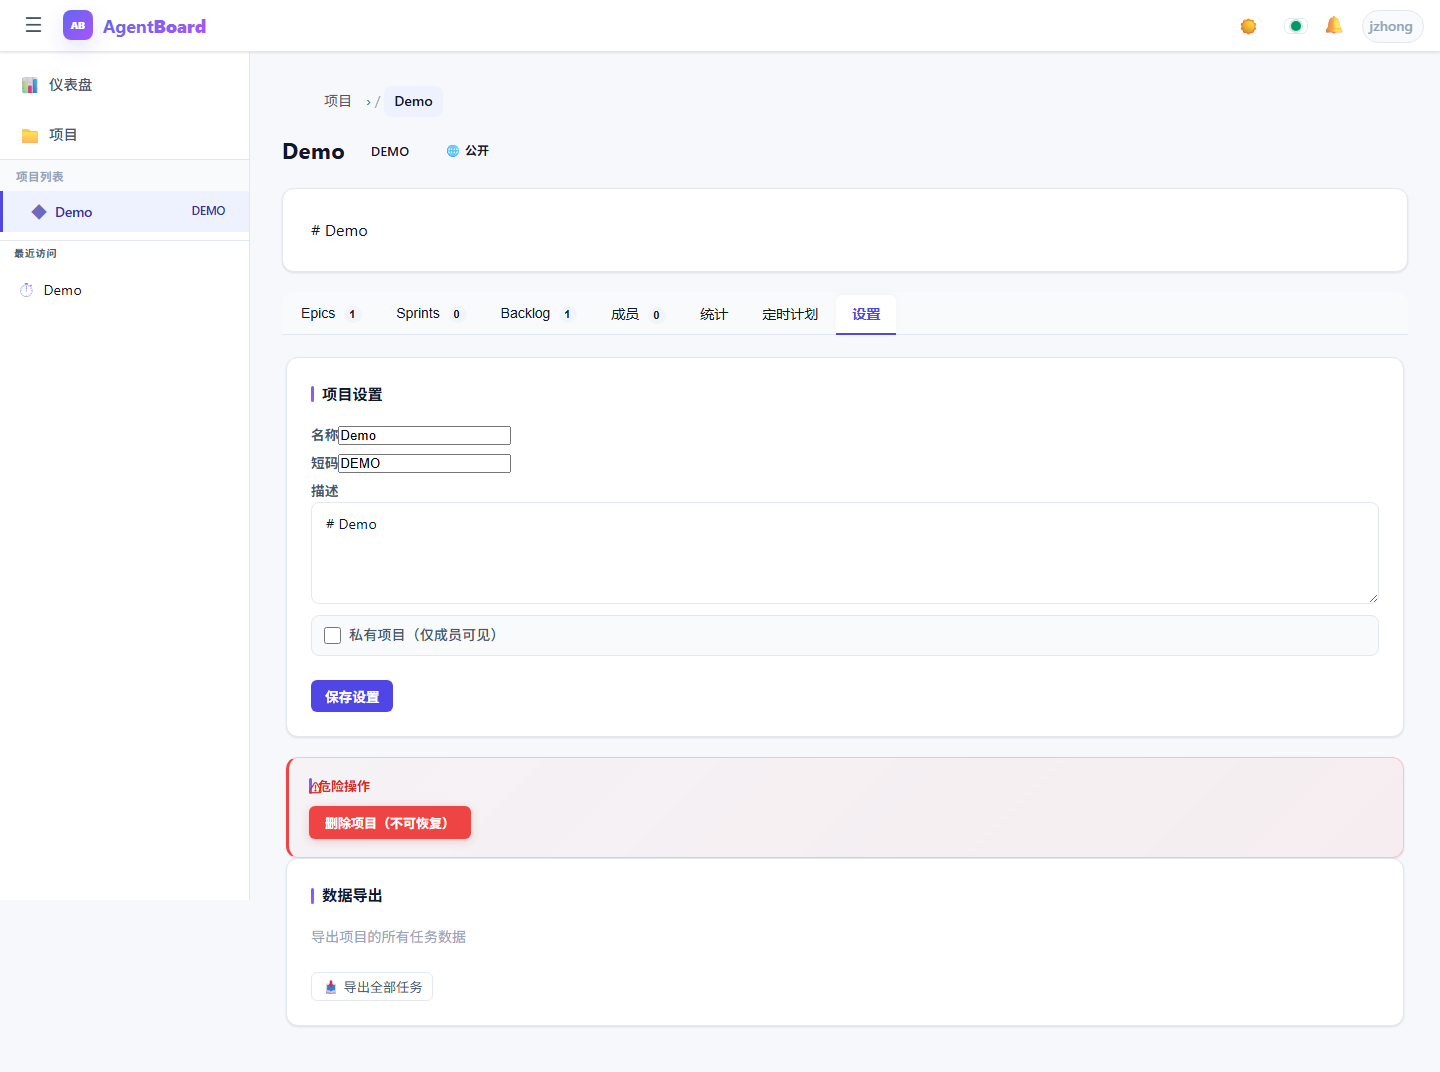
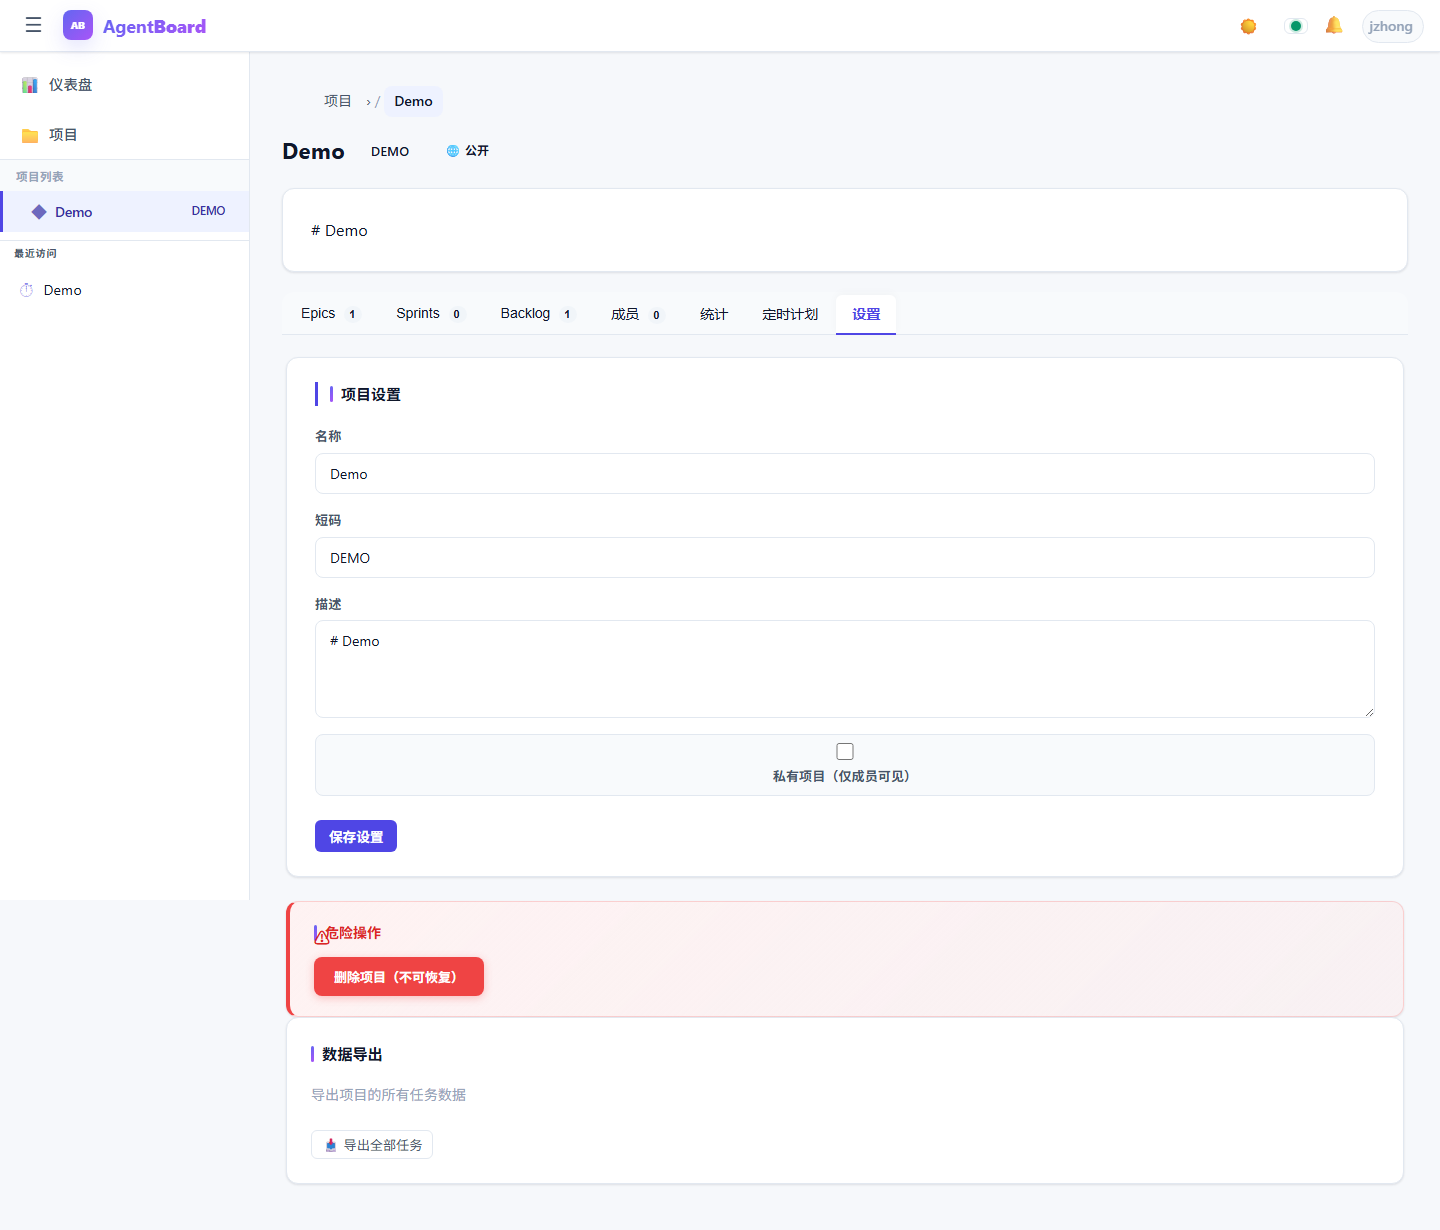
style: improve settings page form layout and danger zone styling
- Form fields now stack vertically (label above input) with proper spacing
- Input fields have 8px border-radius, focus ring, comfortable padding
- Danger zone has 4px red left border + soft red gradient background
- Delete button has shadow and hover lift effect
- Section headers (项目设置/数据导出) have purple left accent bar
- Increase Angular component CSS budget from 8KB to 14KB
- Deploy new build bundles (main-ZFFW24BG.js)

diff --git a/frontend/src/app/app.css b/frontend/src/app/app.css
@@ -153,6 +153,29 @@ router-outlet {
 .setting-list dd { margin: 0; font-size: 14px; padding: 4px 0; border-bottom: 1px solid var(--border-2); }
 .setting-list dd:last-child { border-bottom: none; }
 
+/* Settings form-section: project settings form */
+.card.form-section { padding: 24px 28px; }
+.card.form-section > h4 {
+  font-size: 15px; font-weight: 700; color: var(--text); margin-bottom: 20px;
+  padding-left: 12px; border-left: 3px solid var(--brand-500);
+}
+/* Inline label+input in settings: stack label text above input */
+.card.form-section > form > label {
+  display: flex; flex-direction: column; gap: 6px; margin-bottom: 16px;
+  font-size: 13px; font-weight: 600; color: var(--text-2);
+}
+.card.form-section > form > label input,
+.card.form-section > form > label textarea {
+  width: 100%; padding: 10px 14px; border: 1px solid var(--border);
+  border-radius: 8px; font-family: inherit; font-size: 14px;
+  color: var(--text); background: var(--surface); transition: all .15s;
+}
+.card.form-section > form > label input:focus,
+.card.form-section > form > label textarea:focus {
+  outline: none; border-color: var(--brand-500); box-shadow: 0 0 0 3px var(--brand-ring);
+}
+.card.form-section > form > label textarea { resize: vertical; min-height: 80px; }
+
 .checkbox-label {
   display: flex; align-items: center; gap: 8px; cursor: pointer; font-size: 14px;
   font-weight: 500; padding: 8px 12px; background: var(--surface-2);
@@ -162,16 +185,25 @@ router-outlet {
 .checkbox-label input[type=checkbox] { width: 17px; height: 17px; accent-color: var(--brand-500); }
 
 .danger-zone {
-  margin-top: 20px; border: 1px solid rgba(239,68,68,.25);
-  border-left: 3px solid #ef4444; border-radius: 12px;
-  background: linear-gradient(135deg, rgba(239,68,68,.03), rgba(239,68,68,.06));
-  padding: 18px 20px;
+  margin-top: 24px; border: 1px solid rgba(239,68,68,.2);
+  border-left: 4px solid #ef4444; border-radius: 12px;
+  background: linear-gradient(135deg, #fef2f2, rgba(254,226,226,.3));
+  padding: 20px 24px;
 }
-.danger-zone h4 { color: #dc2626; font-weight: 700; font-size: 13px; margin-bottom: 10px; display: flex; align-items: center; gap: 6px; }
-.danger-zone h4::before { content: "⚠"; }
+.danger-zone h4 {
+  color: #dc2626; font-weight: 700; font-size: 14px;
+  margin-bottom: 12px; display: flex; align-items: center; gap: 8px;
+}
+.danger-zone h4::before { content: "⚠"; font-size: 16px; }
+.danger-zone p { color: #991b1b; font-size: 13px; margin-bottom: 14px; line-height: 1.5; }
 
-.danger-zone .danger { background: #ef4444; color: #fff; border: none; padding: 7px 16px; border-radius: 6px; font-size: 13px; font-weight: 600; cursor: pointer; box-shadow: 0 2px 8px rgba(239,68,68,.25); }
-.danger-zone .danger:hover { background: #dc2626; box-shadow: 0 4px 12px rgba(239,68,68,.35); transform: translateY(-1px); }
+.danger-zone .danger {
+  background: #ef4444; color: #fff; border: none;
+  padding: 10px 20px; border-radius: 8px; font-size: 13px;
+  font-weight: 600; cursor: pointer; box-shadow: 0 2px 8px rgba(239,68,68,.3);
+  transition: all .18s;
+}
+.danger-zone .danger:hover { background: #dc2626; box-shadow: 0 4px 14px rgba(239,68,68,.4); transform: translateY(-1px); }
 
 .info-box { background: linear-gradient(135deg, #eff6ff, #f0fdf4); border: 1px solid #bfdbfe; color: #1e40af; border-radius: 10px; padding: 12px 16px; font-size: 13px; line-height: 1.5; margin-bottom: 14px; display: flex; align-items: center; gap: 10px; }
 .info-box::before { content: "ℹ"; display: inline-flex; align-items: center; justify-content: center; width: 20px; height: 20px; background: #3b82f6; color: #fff; border-radius: 50%; font-size: 11px; font-weight: 700; flex-shrink: 0; }

diff --git a/agentboard/web/static/browser/index.html b/agentboard/web/static/browser/index.html
@@ -5,12 +5,13 @@
     <title>AgentBoard</title>
     <base href="/">
     <meta name="viewport" content="width=device-width, initial-scale=1">
+    <link rel="icon" type="image/svg+xml" href="favicon.svg">
     <link rel="stylesheet" href="/static/style.css">
     <script>
       window.AGENTBOARD_API = '__API_URL__';
     </script>
-  <style>:root{--brand-500:#4f46e5;--brand-600:#4338ca;--brand-700:#3730a3;--brand-soft:#eef2ff;--brand-ring:rgba(79,70,229,.18);--grad:linear-gradient(135deg, #6366f1 0%, #8b5cf6 55%, #a855f7 100%);--primary:var(--brand-500);--primary-hover:var(--brand-600);--success:#059669;--success-soft:#d1fae5;--warning:#d97706;--warning-soft:#fef3c7;--danger:#dc2626;--danger-soft:#fee2e2;--info:#0891b2;--info-soft:#cffafe;--violet:#7c3aed;--violet-soft:#ede9fe;--text:#0f172a;--text-2:#475569;--text-3:#94a3b8;--text-secondary:var(--text-2);--border:#e2e8f0;--border-2:#eef2f6;--bg:#f6f8fb;--surface:#ffffff;--surface-2:#f8fafc;--surface-3:#f1f5f9;--sh-sm:0 1px 2px rgba(15,23,42,.05), 0 1px 3px rgba(15,23,42,.06);--sh-md:0 4px 12px -2px rgba(15,23,42,.08), 0 2px 6px -2px rgba(15,23,42,.05);--sh-lg:0 12px 28px -6px rgba(15,23,42,.14);--sh-brand:0 8px 24px -6px rgba(99,102,241,.45);--r-sm:8px;--r-md:12px;--r-lg:16px;--font-sans:"Inter", -apple-system, BlinkMacSystemFont, "Segoe UI", Roboto, "Noto Sans SC", "PingFang SC", sans-serif;--font-mono:"JetBrains Mono", ui-monospace, Consolas, "Cascadia Code", monospace;--sidebar-width:250px;--topbar-h:52px;--status-backlog-bg:#f1f5f9;--status-backlog-text:#475569;--status-todo-bg:#e0e7ff;--status-todo-text:#4338ca;--status-in_progress-bg:#fef3c7;--status-in_progress-text:#b45309;--status-in_review-bg:#fce7f3;--status-in_review-text:#be185d;--status-verifying-bg:#dbeafe;--status-verifying-text:#1d4ed8;--status-done-bg:#d1fae5;--status-done-text:#047857;--priority-highest-bg:#dc2626;--priority-highest-text:#fff;--priority-high-bg:#f97316;--priority-high-text:#fff;--priority-medium-bg:#eab308;--priority-medium-text:#422006;--priority-low-bg:#22c55e;--priority-low-text:#fff;--priority-lowest-bg:#94a3b8;--priority-lowest-text:#fff}*{box-sizing:border-box;margin:0;padding:0}body{font-family:var(--font-sans);color:var(--text);background:var(--bg);line-height:1.6;min-height:100vh;-webkit-font-smoothing:antialiased;-moz-osx-font-smoothing:grayscale}html{scroll-behavior:smooth}</style><link rel="stylesheet" href="styles-RCZDIITI.css" media="print" onload="this.media='all'"><noscript><link rel="stylesheet" href="styles-RCZDIITI.css"></noscript></head>
+  <style>:root{--brand-500:#4f46e5;--brand-600:#4338ca;--brand-700:#3730a3;--brand-soft:#eef2ff;--brand-ring:rgba(79,70,229,.18);--grad:linear-gradient(135deg, #6366f1 0%, #8b5cf6 55%, #a855f7 100%);--primary:var(--brand-500);--primary-hover:var(--brand-600);--success:#059669;--success-soft:#d1fae5;--warning:#d97706;--warning-soft:#fef3c7;--danger:#dc2626;--danger-soft:#fee2e2;--info:#0891b2;--info-soft:#cffafe;--violet:#7c3aed;--violet-soft:#ede9fe;--text:#0f172a;--text-2:#475569;--text-3:#94a3b8;--text-secondary:var(--text-2);--border:#e2e8f0;--border-2:#eef2f6;--bg:#f6f8fb;--surface:#ffffff;--surface-2:#f8fafc;--surface-3:#f1f5f9;--sh-sm:0 1px 2px rgba(15,23,42,.05), 0 1px 3px rgba(15,23,42,.06);--sh-md:0 4px 12px -2px rgba(15,23,42,.08), 0 2px 6px -2px rgba(15,23,42,.05);--sh-lg:0 12px 28px -6px rgba(15,23,42,.14);--sh-brand:0 8px 24px -6px rgba(99,102,241,.45);--r-sm:8px;--r-md:12px;--r-lg:16px;--font-sans:"Inter", -apple-system, BlinkMacSystemFont, "Segoe UI", Roboto, "Noto Sans SC", "PingFang SC", sans-serif;--font-mono:"JetBrains Mono", ui-monospace, Consolas, "Cascadia Code", monospace;--sidebar-width:250px;--topbar-h:52px;--status-backlog-bg:#f1f5f9;--status-backlog-text:#475569;--status-todo-bg:#e0e7ff;--status-todo-text:#4338ca;--status-in_progress-bg:#fef3c7;--status-in_progress-text:#b45309;--status-in_review-bg:#fce7f3;--status-in_review-text:#be185d;--status-verifying-bg:#dbeafe;--status-verifying-text:#1d4ed8;--status-done-bg:#d1fae5;--status-done-text:#047857;--priority-highest-bg:#dc2626;--priority-highest-text:#fff;--priority-high-bg:#f97316;--priority-high-text:#fff;--priority-medium-bg:#eab308;--priority-medium-text:#422006;--priority-low-bg:#22c55e;--priority-low-text:#fff;--priority-lowest-bg:#94a3b8;--priority-lowest-text:#fff}*{box-sizing:border-box;margin:0;padding:0}body{font-family:var(--font-sans);color:var(--text);background:var(--bg);line-height:1.6;min-height:100vh;-webkit-font-smoothing:antialiased;-moz-osx-font-smoothing:grayscale}html{scroll-behavior:smooth}</style><link rel="stylesheet" href="styles-6PVXSH2A.css" media="print" onload="this.media='all'"><noscript><link rel="stylesheet" href="styles-6PVXSH2A.css"></noscript></head>
   <body>
     <app-root></app-root>
-  <script src="main-KFPYOAIY.js" type="module"></script></body>
+  <script src="main-ZFFW24BG.js" type="module"></script></body>
 </html>

diff --git a/agentboard/web/static/index.html b/agentboard/web/static/index.html
@@ -13,5 +13,5 @@
   <style>:root{--brand-500:#4f46e5;--brand-600:#4338ca;--brand-700:#3730a3;--brand-soft:#eef2ff;--brand-ring:rgba(79,70,229,.18);--grad:linear-gradient(135deg, #6366f1 0%, #8b5cf6 55%, #a855f7 100%);--primary:var(--brand-500);--primary-hover:var(--brand-600);--success:#059669;--success-soft:#d1fae5;--warning:#d97706;--warning-soft:#fef3c7;--danger:#dc2626;--danger-soft:#fee2e2;--info:#0891b2;--info-soft:#cffafe;--violet:#7c3aed;--violet-soft:#ede9fe;--text:#0f172a;--text-2:#475569;--text-3:#94a3b8;--text-secondary:var(--text-2);--border:#e2e8f0;--border-2:#eef2f6;--bg:#f6f8fb;--surface:#ffffff;--surface-2:#f8fafc;--surface-3:#f1f5f9;--sh-sm:0 1px 2px rgba(15,23,42,.05), 0 1px 3px rgba(15,23,42,.06);--sh-md:0 4px 12px -2px rgba(15,23,42,.08), 0 2px 6px -2px rgba(15,23,42,.05);--sh-lg:0 12px 28px -6px rgba(15,23,42,.14);--sh-brand:0 8px 24px -6px rgba(99,102,241,.45);--r-sm:8px;--r-md:12px;--r-lg:16px;--font-sans:"Inter", -apple-system, BlinkMacSystemFont, "Segoe UI", Roboto, "Noto Sans SC", "PingFang SC", sans-serif;--font-mono:"JetBrains Mono", ui-monospace, Consolas, "Cascadia Code", monospace;--sidebar-width:250px;--topbar-h:52px;--status-backlog-bg:#f1f5f9;--status-backlog-text:#475569;--status-todo-bg:#e0e7ff;--status-todo-text:#4338ca;--status-in_progress-bg:#fef3c7;--status-in_progress-text:#b45309;--status-in_review-bg:#fce7f3;--status-in_review-text:#be185d;--status-verifying-bg:#dbeafe;--status-verifying-text:#1d4ed8;--status-done-bg:#d1fae5;--status-done-text:#047857;--priority-highest-bg:#dc2626;--priority-highest-text:#fff;--priority-high-bg:#f97316;--priority-high-text:#fff;--priority-medium-bg:#eab308;--priority-medium-text:#422006;--priority-low-bg:#22c55e;--priority-low-text:#fff;--priority-lowest-bg:#94a3b8;--priority-lowest-text:#fff}*{box-sizing:border-box;margin:0;padding:0}body{font-family:var(--font-sans);color:var(--text);background:var(--bg);line-height:1.6;min-height:100vh;-webkit-font-smoothing:antialiased;-moz-osx-font-smoothing:grayscale}html{scroll-behavior:smooth}</style><link rel="stylesheet" href="styles-6PVXSH2A.css" media="print" onload="this.media='all'"><noscript><link rel="stylesheet" href="styles-6PVXSH2A.css"></noscript></head>
   <body>
     <app-root></app-root>
-  <script src="main-3PPBXTFS.js" type="module"></script></body>
+  <script src="main-ZFFW24BG.js" type="module"></script></body>
 </html>

diff --git a/agentboard/web/static/browser/styles-6PVXSH2A.css b/agentboard/web/static/browser/styles-6PVXSH2A.css
@@ -1,0 +1,1 @@
+:root{--brand-500: #4f46e5;--brand-600: #4338ca;--brand-700: #3730a3;--brand-soft: #eef2ff;--brand-ring: rgba(79,70,229,.18);--grad: linear-gradient(135deg, #6366f1 0%, #8b5cf6 55%, #a855f7 100%);--primary: var(--brand-500);--primary-hover: var(--brand-600);--success: #059669;--success-soft: #d1fae5;--warning: #d97706;--warning-soft: #fef3c7;--danger: #dc2626;--danger-soft: #fee2e2;--info: #0891b2;--info-soft: #cffafe;--violet: #7c3aed;--violet-soft: #ede9fe;--text: #0f172a;--text-2: #475569;--text-3: #94a3b8;--text-secondary: var(--text-2);--border: #e2e8f0;--border-2: #eef2f6;--bg: #f6f8fb;--surface: #ffffff;--surface-2: #f8fafc;--surface-3: #f1f5f9;--sh-sm: 0 1px 2px rgba(15,23,42,.05), 0 1px 3px rgba(15,23,42,.06);--sh-md: 0 4px 12px -2px rgba(15,23,42,.08), 0 2px 6px -2px rgba(15,23,42,.05);--sh-lg: 0 12px 28px -6px rgba(15,23,42,.14);--sh-brand: 0 8px 24px -6px rgba(99,102,241,.45);--r-sm: 8px;--r-md: 12px;--r-lg: 16px;--font-sans: "Inter", -apple-system, BlinkMacSystemFont, "Segoe UI", Roboto, "Noto Sans SC", "PingFang SC", sans-serif;--font-mono: "JetBrains Mono", ui-monospace, Consolas, "Cascadia Code", monospace;--sidebar-width: 250px;--topbar-h: 52px;--status-backlog-bg: #f1f5f9;--status-backlog-text: #475569;--status-todo-bg: #e0e7ff;--status-todo-text: #4338ca;--status-in_progress-bg: #fef3c7;--status-in_progress-text: #b45309;--status-in_review-bg: #fce7f3;--status-in_review-text: #be185d;--status-verifying-bg: #dbeafe;--status-verifying-text: #1d4ed8;--status-done-bg: #d1fae5;--status-done-text: #047857;--priority-highest-bg: #dc2626;--priority-highest-text: #fff;--priority-high-bg: #f97316;--priority-high-text: #fff;--priority-medium-bg: #eab308;--priority-medium-text: #422006;--priority-low-bg: #22c55e;--priority-low-text: #fff;--priority-lowest-bg: #94a3b8;--priority-lowest-text: #fff}[data-theme=dark]{--text: #f1f5f9;--text-2: #94a3b8;--text-3: #64748b;--text-secondary: var(--text-2);--border: #334155;--border-2: #1e293b;--bg: #0f172a;--surface: #1e293b;--surface-2: #1e293b;--surface-3: #334155;--brand-soft: #1e1b4b;--status-backlog-bg: #334155;--status-backlog-text: #94a3b8;--status-todo-bg: #312e81;--status-todo-text: #c7d2fe;--status-done-bg: #064e3b;--status-done-text: #6ee7b7}*{box-sizing:border-box;margin:0;padding:0}body{font-family:var(--font-sans);color:var(--text);background:var(--bg);line-height:1.6;min-height:100vh;-webkit-font-smoothing:antialiased;-moz-osx-font-smoothing:grayscale}html{scroll-behavior:smooth}::selection{background:var(--brand-soft);color:var(--brand-700)}:focus-visible{outline:2px solid var(--brand-500);outline-offset:2px}a{color:var(--brand-500);text-decoration:none;transition:color .15s}a:hover{color:var(--brand-700);text-decoration:underline}::-webkit-scrollbar{width:8px;height:8px}::-webkit-scrollbar-track{background:transparent}::-webkit-scrollbar-thumb{background:var(--border);border-radius:4px}::-webkit-scrollbar-thumb:hover{background:var(--text-3)}.topbar{background:var(--surface);border-bottom:1px solid var(--border);height:var(--topbar-h);position:sticky;top:0;z-index:100;box-shadow:var(--sh-sm)}.topbar-inner{max-width:100%;height:100%;display:flex;align-items:center;justify-content:space-between;padding:0 16px}.topbar-left{display:flex;align-items:center;gap:12px}.topbar-nav{display:flex;gap:4px}.topbar-right{font-size:.9rem;display:flex;align-items:center;gap:16px}.logo{margin:0;display:inline-flex;align-items:center;gap:10px;font-size:1.15rem;font-weight:700;cursor:pointer;letter-spacing:-.02em;-webkit-user-select:none;user-select:none}.logo:hover{opacity:.85;text-decoration:none}.logo-mark{display:inline-flex;align-items:center;justify-content:center;width:32px;height:32px;border-radius:8px;background:var(--grad);color:#fff;font-size:11px;font-weight:800;box-shadow:var(--sh-brand)}.logo-text{background:var(--grad);-webkit-background-clip:text;background-clip:text;-webkit-text-fill-color:transparent;color:transparent}.logo-text b{font-weight:800}.topbar-nav a{padding:6px 14px;border-radius:6px;text-decoration:none;color:var(--text-secondary);font-size:.9rem;font-weight:500;transition:all .15s}.topbar-nav a:hover{background:var(--surface-3);color:var(--text);text-decoration:none}.topbar-nav a.active{background:var(--brand-soft);color:var(--brand-600);font-weight:600}.global-search{width:240px;height:34px;padding:0 14px;border:1px solid var(--border);border-radius:17px;font-size:.88rem;color:var(--text);background:var(--surface-2);outline:none;transition:all .2s}.global-search:focus{border-color:var(--brand-500);background:var(--surface);box-shadow:0 0 0 3px var(--brand-ring);width:280px}.global-search::placeholder{color:var(--text-3)}.icon-btn{background:none;border:none;font-size:1.3rem;cursor:pointer;padding:6px 8px;border-radius:8px;color:var(--text-2);line-height:1;transition:all .15s}.icon-btn:hover{background:var(--surface-3);color:var(--text)}.layout{display:flex;flex:1;min-height:calc(100vh - var(--topbar-h))}.sidebar{width:var(--sidebar-width);min-width:var(--sidebar-width);background:var(--surface);border-right:1px solid var(--border);display:flex;flex-direction:column;height:calc(100vh - var(--topbar-h));position:sticky;top:var(--topbar-h);overflow-y:auto;transition:width .25s,min-width .25s,opacity .25s}.sidebar-header{display:flex;align-items:center;justify-content:space-between;padding:16px;border-bottom:1px solid var(--border-2)}.sidebar-header h3{margin:0;font-size:.78rem;font-weight:700;text-transform:uppercase;letter-spacing:.6px;color:var(--text-2)}.sidebar-tree{flex:1;padding:8px 0;overflow-y:auto}.sidebar-link{display:flex;align-items:center;gap:10px;padding:10px 16px;text-decoration:none;color:var(--text);font-size:.9rem;transition:all .15s;border-left:3px solid transparent}.sidebar-link:hover{background:var(--surface-2);text-decoration:none;color:var(--text)}.sidebar-link.active{background:var(--brand-soft);border-left-color:var(--brand-500);color:var(--brand-700);font-weight:600}.sidebar-icon{font-size:1rem;flex-shrink:0;opacity:.7}.sidebar-label{flex:1;overflow:hidden;text-overflow:ellipsis;white-space:nowrap}.sidebar-key{font-size:.72rem;padding:2px 8px;border-radius:999px;background:var(--brand-soft);color:var(--brand-700);font-weight:600;flex-shrink:0}.sidebar-empty{text-align:center;padding:28px 16px;color:var(--text-3);font-size:.88rem;line-height:1.6}.sidebar-nav{display:flex;flex-direction:column;padding:8px 0;border-bottom:1px solid var(--border)}.sidebar-nav-item{display:flex;align-items:center;gap:10px;padding:12px 16px;text-decoration:none;color:var(--text-2);font-size:.9rem;font-weight:500;transition:all .15s;border-left:3px solid transparent}.sidebar-nav-item:hover{background:var(--surface-2);color:var(--text);text-decoration:none}.sidebar-nav-item.active{background:var(--brand-soft);border-left-color:var(--brand-500);color:var(--brand-700);font-weight:600}.sidebar-nav-icon{font-size:1rem;flex-shrink:0;width:20px;text-align:center}.sidebar-nav-label{flex:1}.sidebar-nav-group{position:relative}.sidebar-sub{background:var(--surface-2);border-top:1px solid var(--border)}.sidebar-sub-header{padding:8px 16px 4px;font-size:.72rem;font-weight:600;text-transform:uppercase;letter-spacing:.5px;color:var(--text-3)}.sidebar-sub-item{display:flex;align-items:center;gap:8px;padding:8px 16px 8px 28px;text-decoration:none;color:var(--text-2);font-size:.85rem;transition:all .12s;border-left:3px solid transparent}.sidebar-sub-item:hover{background:var(--hover);color:var(--text);text-decoration:none}.sidebar-sub-item.active{background:var(--brand-soft);border-left-color:var(--brand-500);color:var(--brand-700);font-weight:600}main{flex:1;max-width:100%;padding:24px 32px;min-width:0;animation:fadeIn .2s ease-out}@keyframes fadeIn{0%{opacity:0;transform:translateY(8px)}to{opacity:1;transform:translateY(0)}}.crumb-bar{display:flex;align-items:center;flex-wrap:wrap;gap:4px;margin-bottom:16px;font-size:.88rem;color:var(--text-2)}.crumb-bar a{color:var(--text-2);text-decoration:none;padding:4px 10px;border-radius:var(--r-sm);transition:all .15s}.crumb-bar a:hover{background:var(--surface-3);color:var(--text);text-decoration:none}.crumb-bar span:not(:last-child):after{content:"/";margin-left:4px;color:var(--text-3)}.crumb-bar span:last-child{color:var(--text);font-weight:600;padding:4px 10px;background:var(--brand-soft);border-radius:var(--r-sm)}.card{background:var(--surface);border:1px solid var(--border);border-radius:var(--r-md);padding:24px;box-shadow:var(--sh-sm);transition:all .2s}.card:hover{box-shadow:var(--sh-md)}.card.md{padding:28px}.card.sm{padding:12px 16px}.card>h4,.card>h3{font-size:.95rem;font-weight:700;color:var(--text);margin-bottom:18px;display:flex;align-items:center;gap:8px}.card>h4:before{content:"";width:3px;height:16px;background:var(--grad);border-radius:2px}.card.form-section{margin-bottom:20px}.page-header{display:flex;align-items:flex-start;justify-content:space-between;margin-bottom:20px;flex-wrap:wrap;gap:12px}.page-title-row{display:flex;align-items:center;gap:12px;flex-wrap:wrap}.page-title-row h2{margin:0;font-size:1.4rem;font-weight:700}.page-actions{display:flex;gap:8px;align-items:center}.btn-primary{background:var(--grad);color:#fff;border:none;padding:10px 20px;border-radius:var(--r-sm);cursor:pointer;font-family:inherit;font-weight:600;font-size:.9rem;transition:all .2s;box-shadow:var(--sh-brand)}.btn-primary:hover{transform:translateY(-1px);box-shadow:0 12px 28px -6px #6366f180;text-decoration:none;color:#fff}.btn-primary:active{transform:translateY(0)}.btn-primary-sm{background:var(--brand-500);color:#fff;border:none;padding:6px 14px;border-radius:6px;cursor:pointer;font-family:inherit;font-size:.85rem;font-weight:600;transition:all .15s}.btn-primary-sm:hover{background:var(--brand-600);transform:translateY(-1px);text-decoration:none;color:#fff}.ghost{background:none;border:1px solid var(--border);padding:8px 16px;border-radius:var(--r-sm);cursor:pointer;font-family:inherit;font-size:.88rem;color:var(--text-2);transition:all .15s}.ghost:hover{background:var(--surface-3);color:var(--text)}.ghost-sm{background:none;border:1px solid var(--border);padding:4px 10px;border-radius:6px;cursor:pointer;font-family:inherit;font-size:.82rem;color:var(--text-2);transition:all .15s}.ghost-sm:hover{background:var(--surface-3);color:var(--text)}.danger{background:none;border:1px solid var(--danger);color:var(--danger);padding:6px 14px;border-radius:6px;cursor:pointer;font-family:inherit;font-size:.85rem;font-weight:500;transition:all .15s}.danger:hover{background:var(--danger-soft)}.block{width:100%;display:block}.badge{display:inline-flex;align-items:center;padding:3px 10px;border-radius:999px;font-size:.75rem;font-weight:600;white-space:nowrap}.badge.lg{padding:4px 14px;font-size:.82rem}.status--backlog{background:var(--status-backlog-bg);color:var(--status-backlog-text)}.status--todo{background:var(--status-todo-bg);color:var(--status-todo-text)}.status--in_progress{background:var(--status-in_progress-bg);color:var(--status-in_progress-text)}.status--in_review{background:var(--status-in_review-bg);color:var(--status-in_review-text)}.status--verifying{background:var(--status-verifying-bg);color:var(--status-verifying-text)}.status--done{background:var(--status-done-bg);color:var(--status-done-text)}.priority--highest{background:var(--priority-highest-bg);color:var(--priority-highest-text)}.priority--high{background:var(--priority-high-bg);color:var(--priority-high-text)}.priority--medium{background:var(--priority-medium-bg);color:var(--priority-medium-text)}.priority--low{background:var(--priority-low-bg);color:var(--priority-low-text)}.priority--lowest{background:var(--priority-lowest-bg);color:var(--priority-lowest-text)}.badge.task{background:var(--info-soft);color:var(--info)}.badge.bug{background:var(--danger-soft);color:var(--danger)}.badge.epic{background:var(--violet-soft);color:var(--violet)}.badge.story{background:var(--brand-soft);color:var(--brand-700)}.type-icon{display:inline-flex;align-items:center;justify-content:center;width:26px;height:26px;border-radius:6px;font-size:.7rem;font-weight:700;flex-shrink:0}.type-icon.epic{background:var(--violet-soft);color:var(--violet)}.type-icon.story{background:var(--brand-soft);color:var(--brand-700)}.type-icon.task{background:var(--info-soft);color:var(--info)}.type-icon.bug{background:var(--danger-soft);color:var(--danger)}.entity-list{display:flex;flex-direction:column;gap:8px}.entity-item{display:flex;align-items:center;justify-content:space-between;flex-wrap:wrap;gap:10px;padding:14px 16px;background:var(--surface);border:1px solid var(--border);border-radius:var(--r-sm);text-decoration:none;color:inherit;transition:all .2s;cursor:pointer}.entity-item:hover{border-color:var(--brand-500);box-shadow:0 4px 12px var(--brand-ring);transform:translate(4px);text-decoration:none;color:inherit}.entity-item-main{display:flex;align-items:center;gap:12px;min-width:0;flex:1}.entity-item-title{font-weight:500;font-size:.95rem;white-space:nowrap;overflow:hidden;text-overflow:ellipsis}.entity-item-badges{display:flex;gap:6px;flex-shrink:0}.empty-inline{padding:20px;text-align:center;color:var(--text-3);font-size:.9rem;background:var(--surface-2);border-radius:var(--r-sm);border:1px dashed var(--border)}.section-header{display:flex;align-items:center;justify-content:space-between;margin:24px 0 14px;padding-bottom:12px;border-bottom:1px solid var(--border-2)}.section-header h2,.section-header h3{margin:0;font-size:1.05rem;font-weight:600}.count{font-weight:400;color:var(--text-2);font-size:.9rem;margin-left:6px}.kanban{display:grid;grid-template-columns:repeat(6,1fr);gap:14px;overflow-x:auto;padding-bottom:8px}.kanban-col{background:var(--surface-2);border-radius:var(--r-md);padding:12px;min-width:180px}.kanban-col-head{display:flex;align-items:center;justify-content:space-between;margin-bottom:12px;padding-bottom:10px;border-bottom:2px solid var(--border);font-size:.85rem;font-weight:600}.kanban-count{background:var(--surface-3);padding:2px 8px;border-radius:999px;font-size:.75rem;color:var(--text-2)}.kanban-card{display:block;background:var(--surface);border:1px solid var(--border);border-radius:var(--r-sm);padding:12px;margin-bottom:8px;text-decoration:none;color:inherit;transition:all .15s;box-shadow:var(--sh-sm)}.kanban-card:hover{border-color:var(--brand-500);box-shadow:var(--sh-md);transform:translateY(-2px);text-decoration:none;color:inherit}.kanban-card strong{font-size:.9rem;display:block;margin-bottom:6px}.kanban-card span{font-size:.75rem;color:var(--text-2)}.table-wrap{overflow-x:auto}.data-table{width:100%;border-collapse:collapse;background:var(--surface);border-radius:var(--r-md);overflow:hidden;box-shadow:var(--sh-sm)}.data-table th{text-align:left;padding:12px 16px;font-size:.8rem;font-weight:700;text-transform:uppercase;letter-spacing:.5px;color:var(--text-2);background:var(--surface-2);border-bottom:1px solid var(--border)}.data-table td{padding:14px 16px;border-bottom:1px solid var(--border-2);font-size:.9rem}.data-table tr:last-child td{border-bottom:none}.data-table tr:hover td{background:var(--surface-2)}.cell-truncate{max-width:200px;overflow:hidden;text-overflow:ellipsis;white-space:nowrap}label{display:block;font-size:.85rem;font-weight:600;color:var(--text-2);margin-bottom:6px;letter-spacing:.01em}input[type=text],input[type=search],input[type=password],input[type=email],input[type=url],textarea,select{width:100%;padding:10px 14px;border:1px solid var(--border);border-radius:var(--r-sm);font-family:inherit;font-size:.9rem;color:var(--text);background:var(--surface);transition:all .15s}input:focus,textarea:focus,select:focus{outline:none;border-color:var(--brand-500);box-shadow:0 0 0 3px var(--brand-ring)}input::placeholder,textarea::placeholder{color:var(--text-3)}select{cursor:pointer}.form-grid{display:grid;grid-template-columns:repeat(auto-fit,minmax(150px,1fr));gap:14px}.form-field{margin-bottom:16px}.form-field:last-child{margin-bottom:0}.row{display:flex;gap:10px;align-items:center;flex-wrap:wrap;margin-top:20px;padding-top:4px}.row>*{margin:0}details.form-section{margin-top:20px}details.form-section summary{cursor:pointer;padding:10px 14px;background:var(--surface-2);border-radius:var(--r-sm);font-size:.88rem;font-weight:500;color:var(--text-2);transition:all .15s;-webkit-user-select:none;user-select:none}details.form-section summary:hover{background:var(--surface-3);color:var(--text)}details.form-section[open] summary{border-radius:var(--r-sm) var(--r-sm) 0 0}details.form-section>form{padding:16px}.hero{display:flex;align-items:flex-start;justify-content:space-between;flex-wrap:wrap;gap:20px;margin-bottom:28px;padding:28px;background:var(--grad);border-radius:var(--r-lg);color:#fff}.hero h1{font-size:1.8rem;font-weight:800;margin:8px 0 12px;line-height:1.3}.hero p{font-size:1rem;opacity:.9}.hero-kicker{display:inline-block;font-size:.7rem;font-weight:700;letter-spacing:1.5px;text-transform:uppercase;opacity:.75;margin-bottom:4px}.hero-pill{display:inline-flex;align-items:center;gap:8px;padding:8px 16px;background:#fff3;border-radius:999px;font-size:.85rem;-webkit-backdrop-filter:blur(4px);backdrop-filter:blur(4px)}.hero-pill span{width:8px;height:8px;background:#4ade80;border-radius:50%;animation:pulse 2s infinite}.hero-pill.ok{background:#22c55e40}.hero-pill.error{background:#ef444440}.hero-pill.hero-progress{background:#4f46e54d;font-weight:600}.hero-right{display:flex;flex-direction:column;gap:8px;align-items:flex-end}.hero .health-dot{width:8px;height:8px;border-radius:50%;display:inline-block}.hero .health-dot.ok{background:#4ade80;animation:pulse 2s infinite}.hero .health-dot.error{background:#f87171;animation:pulse 1s infinite}.hero .health-dot.unknown{background:#94a3b8}.stat-card.stat-info{background:var(--info,#0891b2)}@keyframes pulse{0%,to{opacity:1;transform:scale(1)}50%{opacity:.6;transform:scale(1.2)}}.stats-row{display:grid;grid-template-columns:repeat(auto-fit,minmax(140px,1fr));gap:14px;margin-bottom:24px}.stat-card{background:var(--surface);border:1px solid var(--border);border-radius:var(--r-md);padding:20px 16px;text-align:center;box-shadow:var(--sh-sm);transition:all .2s}.stat-card:hover{transform:translateY(-2px);box-shadow:var(--sh-md)}.stat-brand{border-top:3px solid var(--brand-500)}.stat-violet{border-top:3px solid var(--violet)}.stat-warning{border-top:3px solid var(--warning)}.stat-success{border-top:3px solid var(--success)}.stat-number{font-size:2rem;font-weight:800;color:var(--text);line-height:1.2;font-variant-numeric:tabular-nums}.stat-label{font-size:.85rem;color:var(--text-2);margin-top:6px;font-weight:500}.stat-trend{font-size:.78rem;color:var(--text-3);margin-top:4px}.project-grid{display:grid;grid-template-columns:repeat(auto-fill,minmax(280px,1fr));gap:16px}.project-card{display:block;background:var(--surface);border:1px solid var(--border);border-radius:var(--r-md);padding:20px;text-decoration:none;color:inherit;transition:all .2s;box-shadow:var(--sh-sm)}.project-card:hover{border-color:var(--brand-500);box-shadow:var(--sh-lg);transform:translateY(-3px);text-decoration:none;color:inherit}.project-card-header{display:flex;align-items:center;gap:10px;margin-bottom:10px}.project-card-name{font-weight:700;font-size:1rem}.project-key{font-size:.72rem;padding:3px 10px;border-radius:999px;background:var(--brand-soft);color:var(--brand-700);font-weight:600}.project-card-desc{font-size:.85rem;color:var(--text-2);line-height:1.6;margin-bottom:14px;display:-webkit-box;-webkit-line-clamp:2;-webkit-box-orient:vertical;overflow:hidden}.project-card-stats{display:flex;justify-content:space-between;font-size:.8rem;color:var(--brand-500);font-weight:500}.empty-state{text-align:center;padding:48px 24px;background:var(--surface-2);border:2px dashed var(--border);border-radius:var(--r-lg)}.empty-state h2,.empty-state h3{margin:0 0 8px;font-size:1.1rem}.empty-state p{color:var(--text-2);margin:0}.empty-state.empty-compact{padding:32px 20px}.error-state{border-color:var(--danger);background:var(--danger-soft)}.error-state h2{color:var(--danger)}.user-chip{display:inline-flex;align-items:center;gap:8px;padding:4px 10px 4px 6px;background:var(--surface-2);border-radius:999px;border:1px solid var(--border)}.user-name{font-weight:500;font-size:.88rem}.seg{display:inline-flex;background:var(--surface-3);border-radius:var(--r-sm);padding:3px}.seg-btn{padding:6px 14px;border:none;background:none;font-family:inherit;font-size:.85rem;font-weight:500;color:var(--text-2);cursor:pointer;border-radius:6px;transition:all .15s}.seg-btn:hover{color:var(--text)}.seg-btn.active{background:var(--surface);color:var(--brand-600);box-shadow:var(--sh-sm)}.modal-overlay{position:fixed;inset:0;background:#0f172a80;-webkit-backdrop-filter:blur(4px);backdrop-filter:blur(4px);display:flex;align-items:center;justify-content:center;z-index:1000;padding:20px;animation:fadeIn .15s ease-out}.modal{background:var(--surface);border-radius:var(--r-lg);width:100%;max-width:500px;max-height:90vh;overflow:auto;box-shadow:var(--sh-lg);animation:slideUp .2s ease-out}@keyframes slideUp{0%{opacity:0;transform:translateY(20px)}to{opacity:1;transform:translateY(0)}}.modal-header{display:flex;align-items:center;justify-content:space-between;padding:20px 24px;border-bottom:1px solid var(--border)}.modal-eyebrow{font-size:.7rem;font-weight:700;letter-spacing:1px;text-transform:uppercase;color:var(--brand-500)}.modal-header h3{margin:4px 0 0;font-size:1.1rem}.modal-close{background:none;border:none;font-size:1.5rem;color:var(--text-3);cursor:pointer;padding:4px;line-height:1;transition:color .15s}.modal-close:hover{color:var(--text)}.modal-body{padding:20px 24px}.modal-footer{display:flex;justify-content:flex-end;gap:10px;padding:16px 24px;border-top:1px solid var(--border);background:var(--surface-2);border-radius:0 0 var(--r-lg) var(--r-lg)}.auth-wrap{display:flex;align-items:center;justify-content:center;min-height:100%;padding:20px}.auth-card{background:var(--surface);border-radius:var(--r-lg);padding:32px;width:100%;max-width:400px;box-shadow:var(--sh-lg)}.auth-brand{text-align:center;margin-bottom:24px}.auth-brand h1{font-size:1.5rem;margin:10px 0 6px}.auth-tabs{display:flex;background:var(--surface-3);border-radius:var(--r-sm);padding:4px;margin-bottom:20px}.auth-tab{flex:1;padding:10px;border:none;background:none;font-family:inherit;font-size:.9rem;font-weight:600;color:var(--text-2);cursor:pointer;border-radius:6px;transition:all .15s}.auth-tab.active{background:var(--surface);color:var(--brand-600);box-shadow:var(--sh-sm)}.auth-form{display:flex;flex-direction:column;gap:14px}.required{color:var(--danger)}#toast{position:fixed;bottom:24px;right:24px;z-index:2000}.toast{padding:14px 20px;border-radius:var(--r-sm);font-size:.9rem;font-weight:500;box-shadow:var(--sh-lg);animation:toastIn .3s ease-out}.toast.success{background:var(--success);color:#fff}.toast.error{background:var(--danger);color:#fff}@keyframes toastIn{0%{opacity:0;transform:translateY(20px)}to{opacity:1;transform:translateY(0)}}.comments-card{margin-top:20px}.comment-list{display:flex;flex-direction:column;gap:16px;margin-bottom:20px}.comment-item{display:flex;gap:12px}.avatar{width:36px;height:36px;border-radius:50%;background:var(--grad);color:#fff;display:flex;align-items:center;justify-content:center;font-size:.75rem;font-weight:700;flex-shrink:0}.comment-body{flex:1}.comment-meta{display:flex;align-items:center;gap:10px;margin-bottom:6px}.comment-meta strong{font-size:.9rem}.comment-meta time{font-size:.78rem;color:var(--text-3)}.comment-form{display:flex;flex-direction:column;gap:10px}.two-col{display:grid;grid-template-columns:repeat(auto-fit,minmax(280px,1fr));gap:16px;margin:16px 0}.eyebrow{display:inline-block;font-size:.7rem;font-weight:700;letter-spacing:1.5px;text-transform:uppercase;color:var(--brand-500);margin-bottom:4px}.skeleton{animation:skeleton-pulse 1.5s infinite}@keyframes skeleton-pulse{0%,to{opacity:1}50%{opacity:.5}}.sk-header{margin-bottom:20px}.sk-h{height:32px;width:60%;background:var(--surface-3);border-radius:var(--r-sm);margin-bottom:12px}.sk-grid{display:grid;grid-template-columns:repeat(auto-fit,minmax(200px,1fr));gap:16px}.sk-card{height:100px;background:var(--surface-2);border-radius:var(--r-md)}.muted{color:var(--text-3);font-size:.88rem}.text-pre{white-space:pre-wrap;overflow-wrap:anywhere}.link-bold{font-weight:600}.link{color:var(--brand-500);font-size:.88rem}@media(max-width:1024px){.kanban{grid-template-columns:repeat(3,1fr)}}@media(max-width:768px){main{padding:16px}.hero h1{font-size:1.4rem}.hero{padding:20px}.topbar-nav{display:none}.global-search{width:160px}.global-search:focus{width:200px}.sidebar{width:200px;min-width:200px}.kanban,.stats-row{grid-template-columns:repeat(2,1fr)}.modal{max-width:100%;margin:10px}}@media(max-width:480px){.layout{flex-direction:column}.sidebar{width:100%;min-width:100%;height:auto;position:static;border-right:none;border-bottom:1px solid var(--border)}.kanban{grid-template-columns:1fr}.stats-row{grid-template-columns:1fr 1fr}.hero{flex-direction:column}.page-header{flex-direction:column;align-items:flex-start}}.sprint-create-section{margin:0;padding:0;border:none;background:none}.sprint-create-section summary{cursor:pointer;display:inline-block}.sprint-create-section form{display:flex;flex-direction:column;gap:8px;margin-top:8px;padding:12px;background:var(--card-bg);border:1px solid var(--border);border-radius:var(--r-md)}.sprint-item{align-items:center}.type-icon.sprint-planning{background:#cbd5e1}.type-icon.sprint-active{background:var(--brand-500);color:#fff}.type-icon.sprint-completed{background:#22c55e;color:#fff}.sprint-status{font-size:11px;padding:1px 8px;border-radius:var(--r-sm);font-weight:600}.sprint-status--planning{background:#e2e8f0;color:#475569}.sprint-status--active{background:#ede9fe;color:#5b21b6}.sprint-status--completed{background:#dcfce7;color:#15803d}[data-theme=dark] .sprint-status--planning{background:#334155;color:#94a3b8}[data-theme=dark] .sprint-status--active{background:#3b2984;color:#c4b5fd}[data-theme=dark] .sprint-status--completed{background:#14532d;color:#86efac}[data-theme=dark] .type-icon.sprint-planning{background:#475569}.attachment-list{display:flex;flex-direction:column;gap:8px;margin-bottom:12px}.attachment-item{display:flex;align-items:center;gap:10px;padding:8px 12px;background:var(--surface-2);border-radius:var(--r-sm);border:1px solid var(--border)}.att-icon{font-size:20px;flex-shrink:0}.att-info{flex:1;min-width:0}.att-name{display:block;font-weight:500;white-space:nowrap;overflow:hidden;text-overflow:ellipsis}.att-meta{display:block;font-size:12px;color:var(--text-3)}.upload-area{display:flex;align-items:center;margin-top:8px}.schedule-list{display:flex;flex-direction:column;gap:12px}.schedule-item{display:flex;justify-content:space-between;align-items:center;padding:14px 16px;background:var(--surface);border:1px solid var(--border);border-radius:var(--r-md);box-shadow:var(--sh-sm)}.schedule-info{flex:1;min-width:0}.schedule-title{display:flex;align-items:center;gap:8px;flex-wrap:wrap}.schedule-cron{font-family:var(--font-mono);font-size:13px;margin-top:4px}.schedule-meta{font-size:12px;margin-top:4px}.schedule-actions{display:flex;gap:6px;flex-shrink:0}.schedule-active{background:var(--success-soft);color:var(--success)}.schedule-paused{background:var(--surface-3);color:var(--text-3)}.badge.schedule-active{background:#d1fae5;color:#059669}.badge.schedule-paused{background:#f1f5f9;color:#94a3b8}[data-theme=dark] .badge.schedule-active{background:#14532d;color:#86efac}[data-theme=dark] .badge.schedule-paused{background:#334155;color:#94a3b8}.health-btn{display:inline-flex;align-items:center;justify-content:center;padding:2px 6px;border-radius:6px;cursor:pointer;position:relative}.health-dot{display:inline-block;width:10px;height:10px;border-radius:50%}.health-dot.ok{background:var(--success);box-shadow:0 0 0 2px #[phone redacted]}.health-dot.error{background:var(--danger);box-shadow:0 0 0 2px #dc262633;animation:pulse-error 1.5s infinite}.health-dot.unknown{background:#94a3b8}@keyframes pulse-error{0%,to{opacity:1}50%{opacity:.5}}.health-popover{position:absolute;top:calc(100% + 6px);right:0;background:var(--card-bg, #fff);border:1px solid var(--border, #e2e8f0);border-radius:10px;padding:12px;min-width:200px;box-shadow:var(--sh-md, 0 4px 6px -1px rgba(0,0,0,.1));z-index:9999;font-size:13px}.health-header{margin-bottom:8px;font-size:13px;color:var(--text-secondary, #64748b)}.health-row{display:flex;justify-content:space-between;align-items:center;padding:3px 0;color:var(--text, #0f172a)}.health-row span:first-child{color:var(--text-secondary, #64748b);font-size:12px}.burndown-card{margin-bottom:16px}.burndown-header{display:flex;align-items:center;justify-content:space-between;margin-bottom:12px;flex-wrap:wrap;gap:8px}.burndown-header h4{font-size:14px;font-weight:600;color:var(--text, #0f172a)}.burndown-stats{display:flex;gap:16px}.bd-stat{font-size:12px;color:var(--text-secondary, #64748b)}.bd-stat.highlight strong{color:var(--brand-600, #4338ca)}.burndown-chart{display:flex;align-items:flex-end;gap:4px;height:120px;padding:0 4px;overflow-x:auto}.bd-col{display:flex;flex-direction:column;align-items:center;flex:1;min-width:24px;max-width:48px}.bd-bar-wrap{display:flex;flex-direction:column;justify-content:flex-end;align-items:center;width:100%;height:100px;position:relative}.bd-bar-ideal{position:absolute;bottom:0;width:6px;background:var(--border, #e2e8f0);border-radius:3px;transition:height .3s}.bd-bar-actual{position:absolute;bottom:0;width:10px;background:var(--brand-500, #4f46e5);border-radius:3px;opacity:.8;transition:height .3s}.bd-label{font-size:10px;color:var(--text-secondary, #64748b);margin-top:4px;white-space:nowrap}.burndown-legend{display:flex;gap:16px;margin-top:8px;justify-content:center}.legend-item{display:flex;align-items:center;gap:6px;font-size:12px;color:var(--text-secondary, #64748b)}.legend-swatch{width:12px;height:12px;border-radius:3px}.legend-swatch.ideal{background:var(--border, #e2e8f0)}.legend-swatch.actual{background:var(--brand-500, #4f46e5);opacity:.8}.entity-item--rich{padding:10px 14px}.entity-item-meta{display:flex;align-items:center;gap:6px;flex-wrap:wrap}.entity-item-time{font-size:11px;color:var(--text-secondary, #64748b);white-space:nowrap;margin-left:4px}.sprint-badge{font-size:11px}.kanban-card--rich{padding:10px;display:flex;flex-direction:column;gap:6px}.kanban-card-title{font-size:13px;line-height:1.4}.kanban-card-meta{display:flex;align-items:center;gap:4px;flex-wrap:wrap}.sprint-dot{font-size:11px}.notif-btn--bell{position:relative}.bell-icon{font-size:18px}.notif-badge--pulse{animation:badge-pulse 2s ease-in-out infinite}@keyframes badge-pulse{0%,to{transform:scale(1)}50%{transform:scale(1.15)}}.notif-panel--animate{animation:slideDown .2s ease-out;transform-origin:top}@keyframes slideDown{0%{opacity:0;transform:translateY(-8px) scaleY(.95)}to{opacity:1;transform:translateY(0) scaleY(1)}}.notif-unread-tag{font-size:11px;color:var(--brand-600, #4338ca);font-weight:600;background:var(--brand-soft, #eef2ff);padding:2px 8px;border-radius:999px;margin-right:auto}.notif-all-read-tag{font-size:11px;color:var(--success, #059669);margin-right:auto}.notif-list{max-height:360px;overflow-y:auto}.notif-item{display:flex;align-items:flex-start;gap:10px;padding:10px 12px;border-bottom:1px solid var(--border, #e2e8f0);cursor:pointer;transition:background .15s;position:relative}.notif-item:hover{background:var(--surface-2, #f8fafc)}.notif-item.unread{background:var(--brand-soft, #eef2ff)}.notif-item.unread:hover{background:#e0e7ff}.notif-item-icon{font-size:18px;flex-shrink:0;width:28px;text-align:center}.notif-item-body{flex:1;min-width:0}.notif-title{font-size:13px;font-weight:500;color:var(--text, #0f172a);line-height:1.4}.notif-content{font-size:12px;color:var(--text-secondary, #64748b);margin-top:2px;overflow:hidden;text-overflow:ellipsis;white-space:nowrap}.notif-time{font-size:11px;color:var(--text-secondary, #64748b);margin-top:3px}.notif-dot{width:7px;height:7px;border-radius:50%;background:var(--brand-500, #4f46e5);flex-shrink:0;margin-top:4px}.theme-icon{font-size:16px;display:inline-block}.sidebar-recent-header{font-size:10px;font-weight:700;text-transform:uppercase;letter-spacing:.8px;color:var(--text-secondary, #64748b);padding:4px 14px;margin-bottom:2px}.recent-icon{color:var(--brand-500, #4f46e5)}